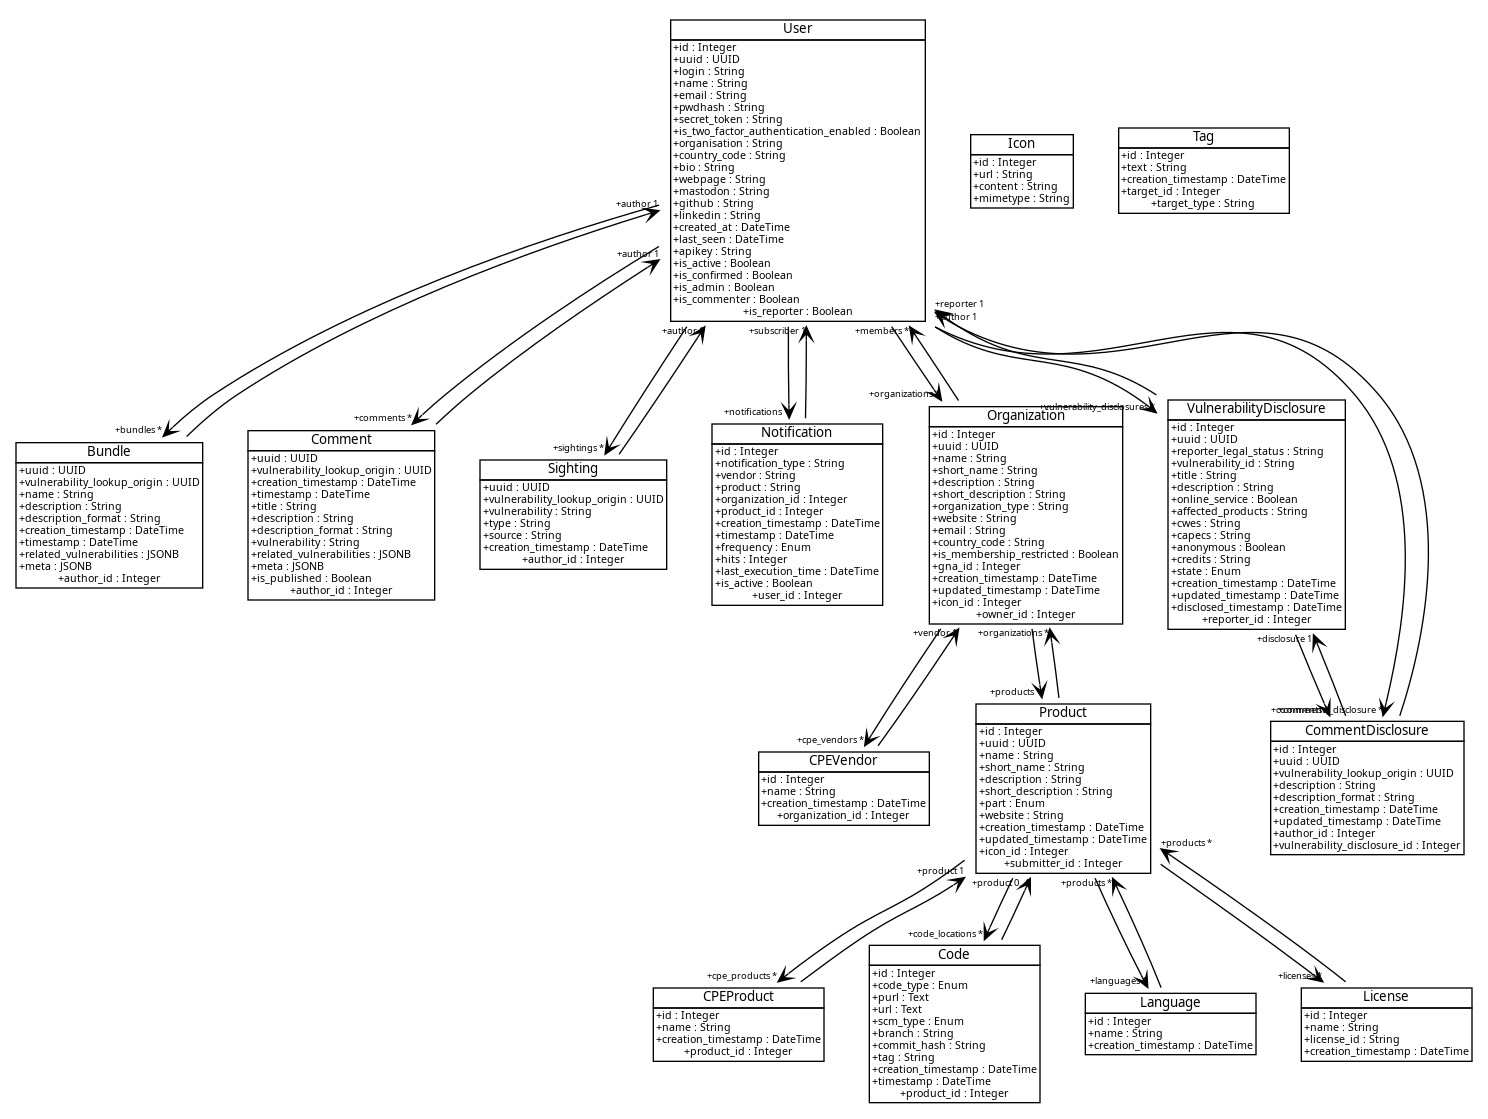
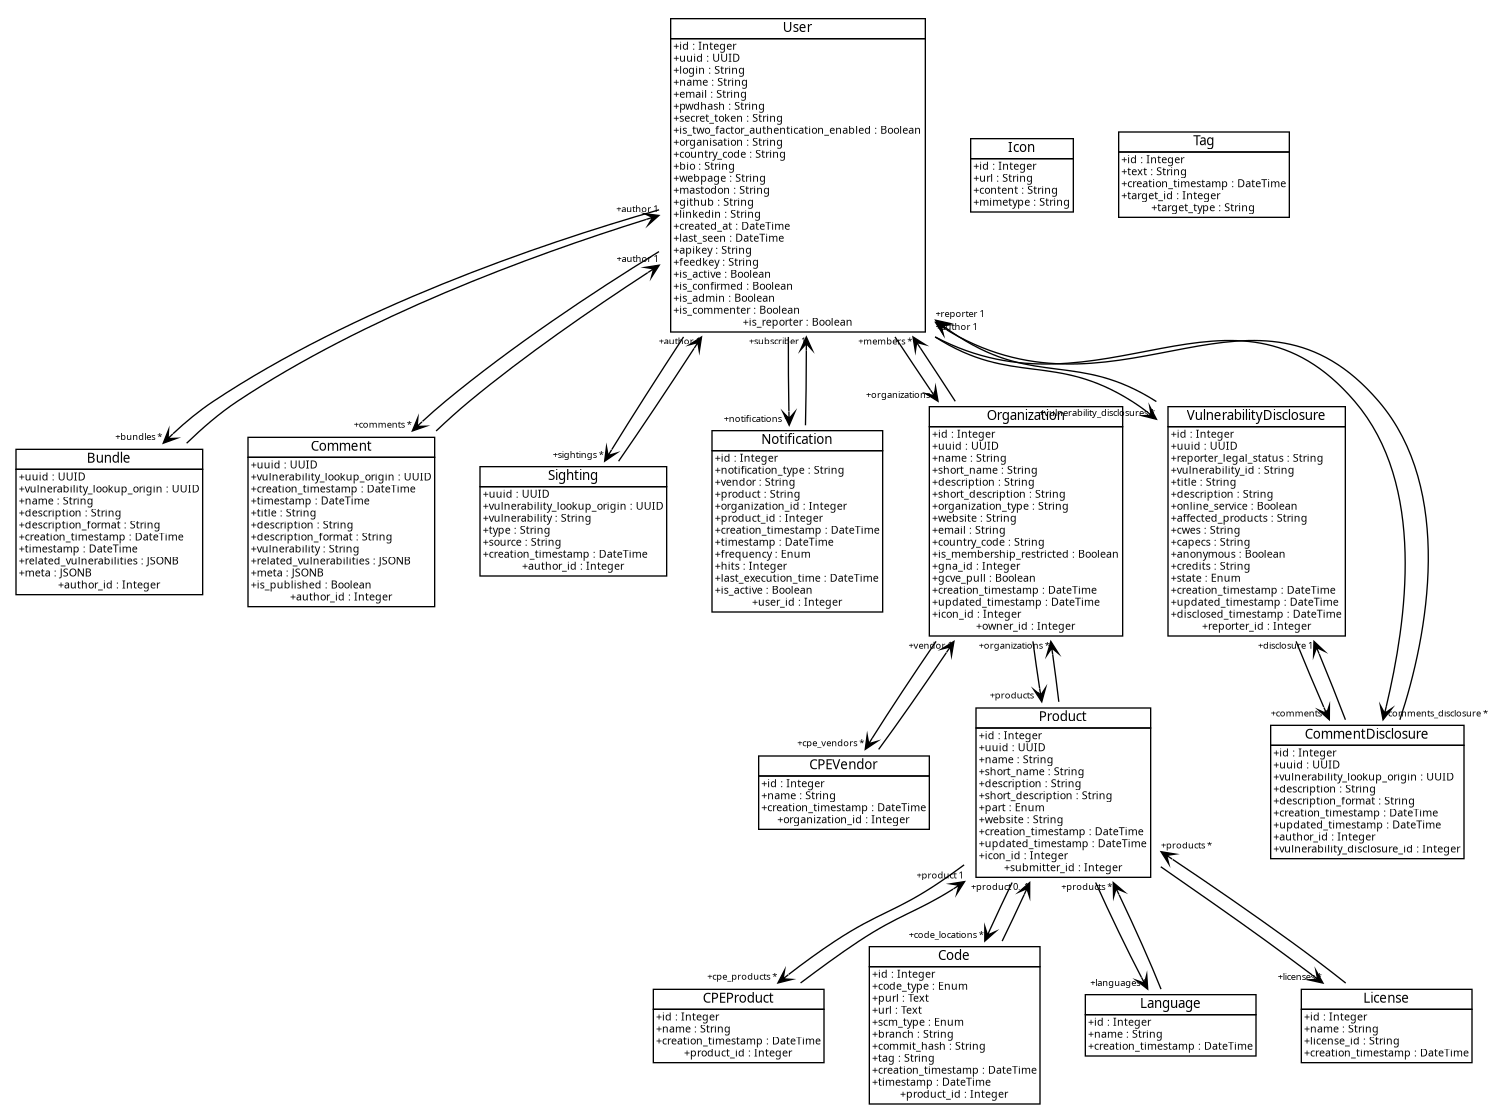
chg: [documentation] Updated technical documentation.

diff --git a/static/documentation/installation.html b/static/documentation/installation.html
@@ -37,7 +37,7 @@
 <link rel="preload" as="script" href="_static/scripts/pydata-sphinx-theme.js?digest=dfe6caa3a7d634c4db9b" />
   <script src="_static/vendor/fontawesome/6.5.2/js/all.min.js?digest=dfe6caa3a7d634c4db9b"></script>
 
-    <script src="_static/documentation_options.js?v=992c72a6"></script>
+    <script src="_static/documentation_options.js?v=22086b0a"></script>
     <script src="_static/doctools.js?v=9bcbadda"></script>
     <script src="_static/sphinx_highlight.js?v=dc90522c"></script>
     <script src="_static/scripts/sphinx-book-theme.js?v=887ef09a"></script>
@@ -399,7 +399,7 @@ document.write(`
             <nav aria-label="Page">
                 <ul class="visible nav section-nav flex-column">
 <li class="toc-h2 nav-item toc-entry"><a class="reference internal nav-link" href="#prerequisites">Prerequisites</a><ul class="nav section-nav flex-column">
-<li class="toc-h3 nav-item toc-entry"><a class="reference internal nav-link" href="#redis">Redis</a></li>
+<li class="toc-h3 nav-item toc-entry"><a class="reference internal nav-link" href="#valkey">Valkey</a></li>
 <li class="toc-h3 nav-item toc-entry"><a class="reference internal nav-link" href="#kvrocks">Kvrocks</a></li>
 <li class="toc-h3 nav-item toc-entry"><a class="reference internal nav-link" href="#import-csaf-sources">Import CSAF Sources</a></li>
 </ul>
@@ -430,36 +430,37 @@ document.write(`
 <p>This section provides detailed instructions for installing the software and its dependencies.</p>
 <section id="prerequisites">
 <h2>Prerequisites<a class="headerlink" href="#prerequisites" title="Link to this heading">#</a></h2>
-<p>You need to have both Redis and Kvrocks built from source and available locally.
+<p>You need to have both Valkey and Kvrocks built from source and available locally.
 By default, the standard scripts of <em>Vulnerability-Lookup</em> expect the following directory structure:</p>
 <div class="highlight-bash notranslate"><div class="highlight"><pre><span></span>/vulnerability-lookup<span class="w">   </span><span class="c1"># Vulnerability-Lookup codebase</span>
-/redis
 /kvrocks
+/valkey
 </pre></div>
 </div>
-<p>Specifically:</p>
-<ul class="simple">
-<li><p><code class="docutils literal notranslate"><span class="pre">./vulnerability-lookup/cache/run_redis.sh</span></code> runs <code class="docutils literal notranslate"><span class="pre">./redis/src/redis-server</span></code></p></li>
-<li><p><code class="docutils literal notranslate"><span class="pre">./vulnerability-lookup/storage/run_kvrocks.sh</span></code> runs <code class="docutils literal notranslate"><span class="pre">./kvrocks/build/kvrocks</span></code>
-(or starts the <code class="docutils literal notranslate"><span class="pre">apache/kvrocks</span></code> Docker container)</p></li>
-</ul>
-<p>The <em>Vulnerability-Lookup</em> launcher provides configuration for both Redis and Kvrocks.</p>
-<section id="redis">
-<h3>Redis<a class="headerlink" href="#redis" title="Link to this heading">#</a></h3>
-<p><a class="reference external" href="https://redis.io/">Redis</a> is an open-source (BSD-licensed) in-memory data structure store used as a database, cache, and message broker.</p>
+<p>The <em>Vulnerability-Lookup</em> launcher provides configuration for both Valkey and Kvrocks.</p>
 <div class="admonition note">
 <p class="admonition-title">Note</p>
-<p>Clone and build Redis <strong>in the same parent directory</strong> as this repository — not inside it.</p>
+<ul class="simple">
+<li><p>The script <code class="docutils literal notranslate"><span class="pre">./vulnerability-lookup/storage/run_kvrocks.sh</span></code> runs <code class="docutils literal notranslate"><span class="pre">./kvrocks/build/kvrocks</span></code></p></li>
+<li><p>The script <code class="docutils literal notranslate"><span class="pre">./vulnerability-lookup/cache/run_redis.sh</span></code> runs <code class="docutils literal notranslate"><span class="pre">./valkey/src/valkey-server</span></code></p></li>
+</ul>
+</div>
+<section id="valkey">
+<h3>Valkey<a class="headerlink" href="#valkey" title="Link to this heading">#</a></h3>
+<p><a class="reference external" href="https://valkey.io">Valkey</a> is an open-source (BSD-licensed) in-memory data structure store used as a database, cache, and message broker.</p>
+<div class="admonition note">
+<p class="admonition-title">Note</p>
+<p>Clone and build Valkey <strong>in the same parent directory</strong> as this repository — not inside it.</p>
 </div>
 <p>Install required packages:</p>
 <div class="highlight-bash notranslate"><div class="highlight"><pre><span></span>sudo<span class="w"> </span>apt-get<span class="w"> </span>update
 sudo<span class="w"> </span>apt<span class="w"> </span>install<span class="w"> </span>build-essential<span class="w"> </span>tcl
 </pre></div>
 </div>
-<p>Then build Redis:</p>
-<div class="highlight-bash notranslate"><div class="highlight"><pre><span></span>git<span class="w"> </span>clone<span class="w"> </span>https://github.com/redis/redis.git
-<span class="nb">cd</span><span class="w"> </span>redis
-git<span class="w"> </span>checkout<span class="w"> </span><span class="m">7</span>.2
+<p>Then install Valkey:</p>
+<div class="highlight-bash notranslate"><div class="highlight"><pre><span></span>git<span class="w"> </span>clone<span class="w"> </span>https://github.com/valkey-io/valkey
+<span class="nb">cd</span><span class="w"> </span>valkey
+git<span class="w"> </span>checkout<span class="w"> </span><span class="m">9</span>.0.1
 make
 <span class="c1"># Optionally, run the tests:</span>
 make<span class="w"> </span><span class="nb">test</span>
@@ -469,8 +470,8 @@ make<span class="w"> </span><span class="nb">test</span>
 </section>
 <section id="kvrocks">
 <h3>Kvrocks<a class="headerlink" href="#kvrocks" title="Link to this heading">#</a></h3>
-<p><a class="reference external" href="https://github.com/apache/incubator-kvrocks">Kvrocks</a> is a distributed NoSQL key-value database built on RocksDB and compatible with the Redis protocol.
-Its goal is to reduce memory usage while maintaining Redis compatibility.</p>
+<p><a class="reference external" href="https://github.com/apache/kvrocks">Kvrocks</a> is a distributed key value NoSQL database that uses <a class="reference external" href="https://rocksdb.org/">RocksDB</a> as storage engine and is compatible with Redis protocol.
+Kvrocks intends to decrease the cost of memory and increase the capacity while compared to Redis.</p>
 <div class="admonition note">
 <p class="admonition-title">Note</p>
 <p>Kvrocks should be installed from the source, and the repository must be in one directory up as the one you will be cloning vulnerability-lookup into.
@@ -482,9 +483,9 @@ sudo<span class="w"> </span>apt<span class="w"> </span>install<span class="w"> <
 </pre></div>
 </div>
 <p>Then clone and build Kvrocks:</p>
-<div class="highlight-bash notranslate"><div class="highlight"><pre><span></span>git<span class="w"> </span>clone<span class="w"> </span>--recursive<span class="w"> </span>https://github.com/apache/kvrocks.git
+<div class="highlight-bash notranslate"><div class="highlight"><pre><span></span>git<span class="w"> </span>clone<span class="w"> </span>https://github.com/apache/kvrocks.git
 <span class="nb">cd</span><span class="w"> </span>kvrocks
-git<span class="w"> </span>checkout<span class="w"> </span>v2.13.0
+git<span class="w"> </span>checkout<span class="w"> </span>v2.14.0
 ./x.py<span class="w"> </span>build
 <span class="nb">cd</span><span class="w"> </span>..
 </pre></div>
@@ -493,14 +494,12 @@ git<span class="w"> </span>checkout<span class="w"> </span>v2.13.0
 <section id="import-csaf-sources">
 <h3>Import CSAF Sources<a class="headerlink" href="#import-csaf-sources" title="Link to this heading">#</a></h3>
 <ol class="arabic simple">
-<li><p>Build the <a class="reference external" href="https://github.com/csaf-poc/csaf_distribution?tab=readme-ov-file#build-from-sources">CSAF support tools</a>.
+<li><p>Build the <a class="reference external" href="https://github.com/gocsaf/csaf?tab=readme-ov-file#build-from-sources">CSAF support tools</a>.
 (Requires Go ≥ 1.23)</p></li>
 <li><p>Verify the downloader exists and works:</p></li>
 </ol>
-<div class="highlight-bash notranslate"><div class="highlight"><pre><span></span>$<span class="w"> </span>./bin-linux-amd64/csaf_downloader<span class="w"> </span>-h
-Usage:
-<span class="w">  </span>csaf_downloader<span class="w"> </span><span class="o">[</span>OPTIONS<span class="o">]</span><span class="w"> </span>domain...
-<span class="c1"># (full usage instructions omitted for brevity)</span>
+<div class="highlight-bash notranslate"><div class="highlight"><pre><span></span>$<span class="w"> </span>./bin-linux-amd64/csaf_downloader<span class="w"> </span>--version
+<span class="m">3</span>.5.1
 </pre></div>
 </div>
 <ol class="arabic simple" start="3">
@@ -703,7 +702,7 @@ systemctl<span class="w"> </span>status<span class="w"> </span>vulnerability-loo
   <nav class="bd-toc-nav page-toc">
     <ul class="visible nav section-nav flex-column">
 <li class="toc-h2 nav-item toc-entry"><a class="reference internal nav-link" href="#prerequisites">Prerequisites</a><ul class="nav section-nav flex-column">
-<li class="toc-h3 nav-item toc-entry"><a class="reference internal nav-link" href="#redis">Redis</a></li>
+<li class="toc-h3 nav-item toc-entry"><a class="reference internal nav-link" href="#valkey">Valkey</a></li>
 <li class="toc-h3 nav-item toc-entry"><a class="reference internal nav-link" href="#kvrocks">Kvrocks</a></li>
 <li class="toc-h3 nav-item toc-entry"><a class="reference internal nav-link" href="#import-csaf-sources">Import CSAF Sources</a></li>
 </ul>

diff --git a/static/documentation/prerequisites.html b/static/documentation/prerequisites.html
@@ -37,7 +37,7 @@
 <link rel="preload" as="script" href="_static/scripts/pydata-sphinx-theme.js?digest=dfe6caa3a7d634c4db9b" />
   <script src="_static/vendor/fontawesome/6.5.2/js/all.min.js?digest=dfe6caa3a7d634c4db9b"></script>
 
-    <script src="_static/documentation_options.js?v=992c72a6"></script>
+    <script src="_static/documentation_options.js?v=22086b0a"></script>
     <script src="_static/doctools.js?v=9bcbadda"></script>
     <script src="_static/sphinx_highlight.js?v=dc90522c"></script>
     <script src="_static/scripts/sphinx-book-theme.js?v=887ef09a"></script>
@@ -422,7 +422,7 @@ document.write(`
 <li><p>Python version &gt;= 3.10. Tested with Python 3.13 and 3.14</p></li>
 <li><p><a class="reference external" href="https://github.com/apache/kvrocks">Kvrocks</a> database.</p></li>
 <li><p><a class="reference external" href="https://python-poetry.org">Poetry</a>.</p></li>
-<li><p>PostgreSQL server for storage related to the users.</p></li>
+<li><p>PostgreSQL server for storage.</p></li>
 <li><p>An email server — outgoing email for the accounts confirmation (password recovery, etc.).</p></li>
 </ul>
 <p>Postfix, or an equivalent software, is required for the email notifications.</p>

diff --git a/static/documentation/_static/documentation_options.js b/static/documentation/_static/documentation_options.js
@@ -1,5 +1,5 @@
 const DOCUMENTATION_OPTIONS = {
-    VERSION: '2.17.0',
+    VERSION: '2.20.0',
     LANGUAGE: 'en',
     COLLAPSE_INDEX: false,
     BUILDER: 'html',

diff --git a/static/documentation/api-v1.html b/static/documentation/api-v1.html
@@ -37,7 +37,7 @@
 <link rel="preload" as="script" href="_static/scripts/pydata-sphinx-theme.js?digest=dfe6caa3a7d634c4db9b" />
   <script src="_static/vendor/fontawesome/6.5.2/js/all.min.js?digest=dfe6caa3a7d634c4db9b"></script>
 
-    <script src="_static/documentation_options.js?v=992c72a6"></script>
+    <script src="_static/documentation_options.js?v=22086b0a"></script>
     <script src="_static/doctools.js?v=9bcbadda"></script>
     <script src="_static/sphinx_highlight.js?v=dc90522c"></script>
     <script src="_static/scripts/sphinx-book-theme.js?v=887ef09a"></script>

diff --git a/static/documentation/architecture.html b/static/documentation/architecture.html
@@ -37,7 +37,7 @@
 <link rel="preload" as="script" href="_static/scripts/pydata-sphinx-theme.js?digest=dfe6caa3a7d634c4db9b" />
   <script src="_static/vendor/fontawesome/6.5.2/js/all.min.js?digest=dfe6caa3a7d634c4db9b"></script>
 
-    <script src="_static/documentation_options.js?v=992c72a6"></script>
+    <script src="_static/documentation_options.js?v=22086b0a"></script>
     <script src="_static/doctools.js?v=9bcbadda"></script>
     <script src="_static/sphinx_highlight.js?v=dc90522c"></script>
     <script src="_static/scripts/sphinx-book-theme.js?v=887ef09a"></script>

diff --git a/static/documentation/command-line-interface.html b/static/documentation/command-line-interface.html
@@ -37,7 +37,7 @@
 <link rel="preload" as="script" href="_static/scripts/pydata-sphinx-theme.js?digest=dfe6caa3a7d634c4db9b" />
   <script src="_static/vendor/fontawesome/6.5.2/js/all.min.js?digest=dfe6caa3a7d634c4db9b"></script>
 
-    <script src="_static/documentation_options.js?v=992c72a6"></script>
+    <script src="_static/documentation_options.js?v=22086b0a"></script>
     <script src="_static/doctools.js?v=9bcbadda"></script>
     <script src="_static/sphinx_highlight.js?v=dc90522c"></script>
     <script src="_static/scripts/sphinx-book-theme.js?v=887ef09a"></script>

diff --git a/static/documentation/contributing.html b/static/documentation/contributing.html
@@ -37,7 +37,7 @@
 <link rel="preload" as="script" href="_static/scripts/pydata-sphinx-theme.js?digest=dfe6caa3a7d634c4db9b" />
   <script src="_static/vendor/fontawesome/6.5.2/js/all.min.js?digest=dfe6caa3a7d634c4db9b"></script>
 
-    <script src="_static/documentation_options.js?v=992c72a6"></script>
+    <script src="_static/documentation_options.js?v=22086b0a"></script>
     <script src="_static/doctools.js?v=9bcbadda"></script>
     <script src="_static/sphinx_highlight.js?v=dc90522c"></script>
     <script src="_static/scripts/sphinx-book-theme.js?v=887ef09a"></script>

diff --git a/static/documentation/feeds.html b/static/documentation/feeds.html
@@ -37,7 +37,7 @@
 <link rel="preload" as="script" href="_static/scripts/pydata-sphinx-theme.js?digest=dfe6caa3a7d634c4db9b" />
   <script src="_static/vendor/fontawesome/6.5.2/js/all.min.js?digest=dfe6caa3a7d634c4db9b"></script>
 
-    <script src="_static/documentation_options.js?v=992c72a6"></script>
+    <script src="_static/documentation_options.js?v=22086b0a"></script>
     <script src="_static/doctools.js?v=9bcbadda"></script>
     <script src="_static/sphinx_highlight.js?v=dc90522c"></script>
     <script src="_static/scripts/sphinx-book-theme.js?v=887ef09a"></script>

diff --git a/static/documentation/genindex.html b/static/documentation/genindex.html
@@ -36,7 +36,7 @@
 <link rel="preload" as="script" href="_static/scripts/pydata-sphinx-theme.js?digest=dfe6caa3a7d634c4db9b" />
   <script src="_static/vendor/fontawesome/6.5.2/js/all.min.js?digest=dfe6caa3a7d634c4db9b"></script>
 
-    <script src="_static/documentation_options.js?v=992c72a6"></script>
+    <script src="_static/documentation_options.js?v=22086b0a"></script>
     <script src="_static/doctools.js?v=9bcbadda"></script>
     <script src="_static/sphinx_highlight.js?v=dc90522c"></script>
     <script src="_static/scripts/sphinx-book-theme.js?v=887ef09a"></script>

diff --git a/static/documentation/http-routingtable.html b/static/documentation/http-routingtable.html
@@ -36,7 +36,7 @@
 <link rel="preload" as="script" href="_static/scripts/pydata-sphinx-theme.js?digest=dfe6caa3a7d634c4db9b" />
   <script src="_static/vendor/fontawesome/6.5.2/js/all.min.js?digest=dfe6caa3a7d634c4db9b"></script>
 
-    <script src="_static/documentation_options.js?v=992c72a6"></script>
+    <script src="_static/documentation_options.js?v=22086b0a"></script>
     <script src="_static/doctools.js?v=9bcbadda"></script>
     <script src="_static/sphinx_highlight.js?v=dc90522c"></script>
     <script src="_static/scripts/sphinx-book-theme.js?v=887ef09a"></script>

diff --git a/static/documentation/index.html b/static/documentation/index.html
@@ -37,7 +37,7 @@
 <link rel="preload" as="script" href="_static/scripts/pydata-sphinx-theme.js?digest=dfe6caa3a7d634c4db9b" />
   <script src="_static/vendor/fontawesome/6.5.2/js/all.min.js?digest=dfe6caa3a7d634c4db9b"></script>
 
-    <script src="_static/documentation_options.js?v=992c72a6"></script>
+    <script src="_static/documentation_options.js?v=22086b0a"></script>
     <script src="_static/doctools.js?v=9bcbadda"></script>
     <script src="_static/sphinx_highlight.js?v=dc90522c"></script>
     <script src="_static/scripts/sphinx-book-theme.js?v=887ef09a"></script>

diff --git a/static/documentation/logging.html b/static/documentation/logging.html
@@ -37,7 +37,7 @@
 <link rel="preload" as="script" href="_static/scripts/pydata-sphinx-theme.js?digest=dfe6caa3a7d634c4db9b" />
   <script src="_static/vendor/fontawesome/6.5.2/js/all.min.js?digest=dfe6caa3a7d634c4db9b"></script>
 
-    <script src="_static/documentation_options.js?v=992c72a6"></script>
+    <script src="_static/documentation_options.js?v=22086b0a"></script>
     <script src="_static/doctools.js?v=9bcbadda"></script>
     <script src="_static/sphinx_highlight.js?v=dc90522c"></script>
     <script src="_static/scripts/sphinx-book-theme.js?v=887ef09a"></script>